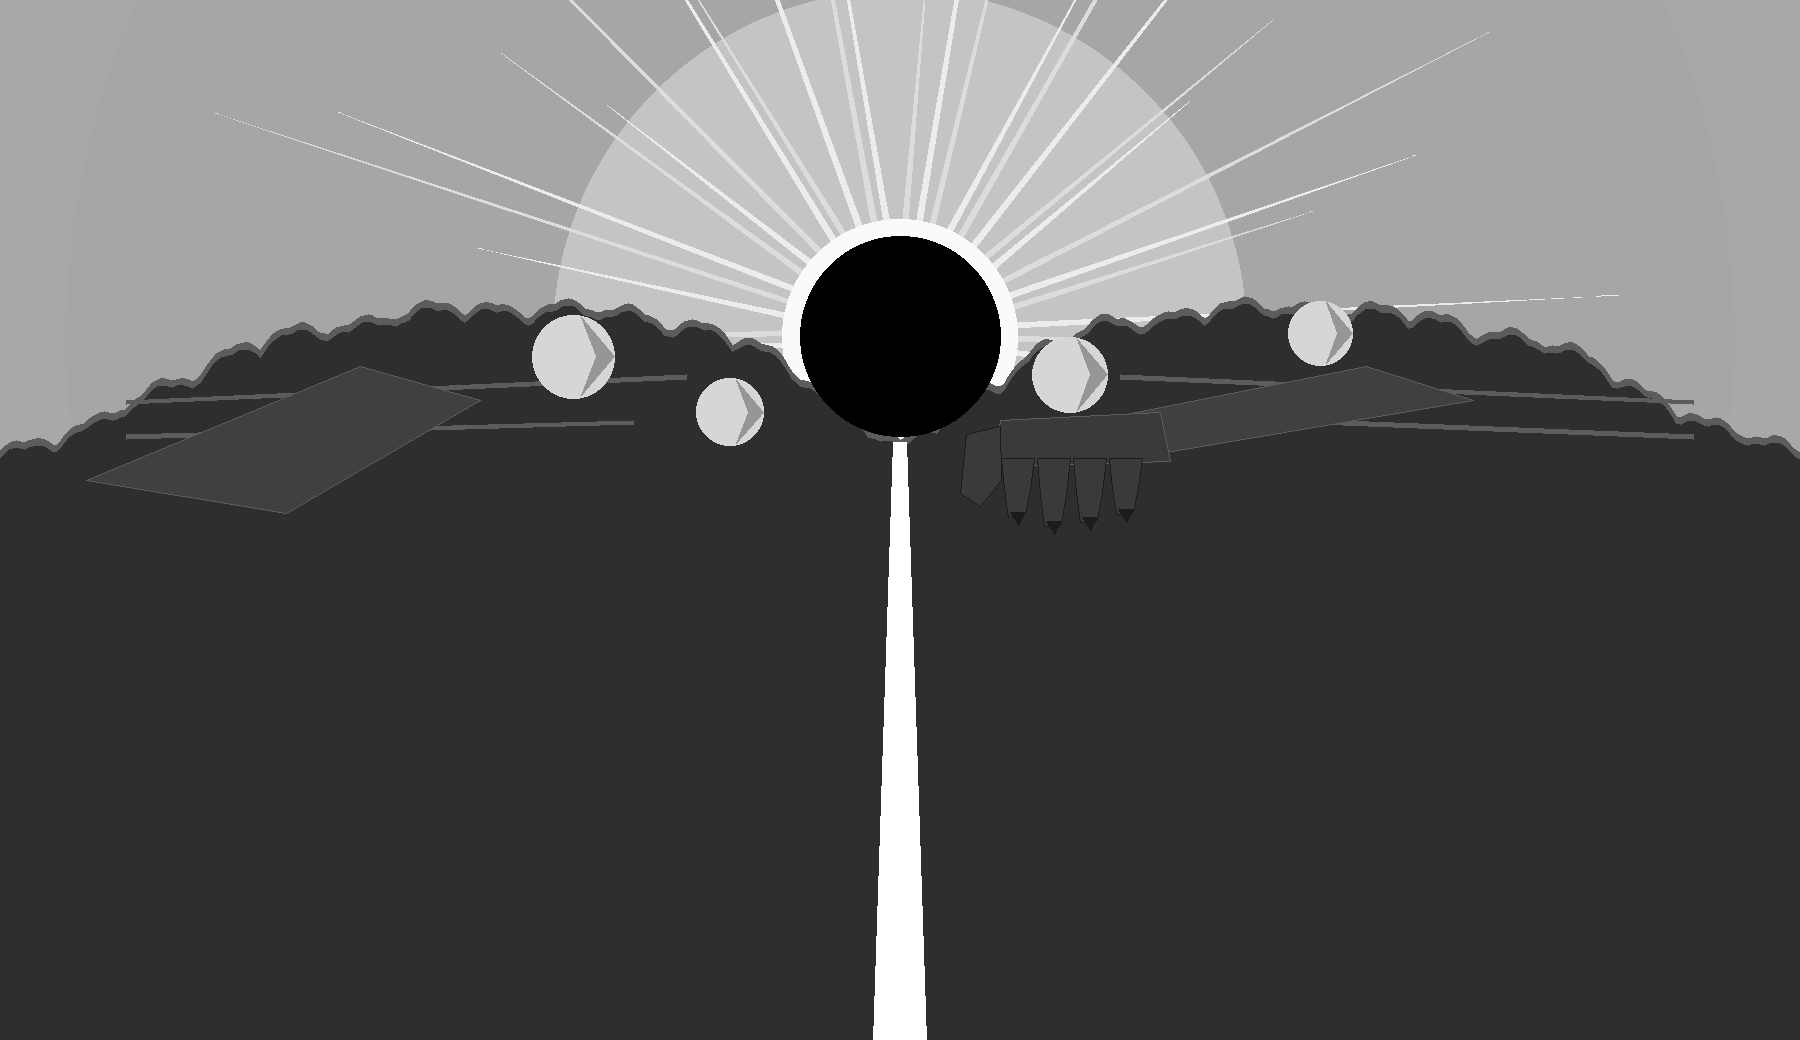
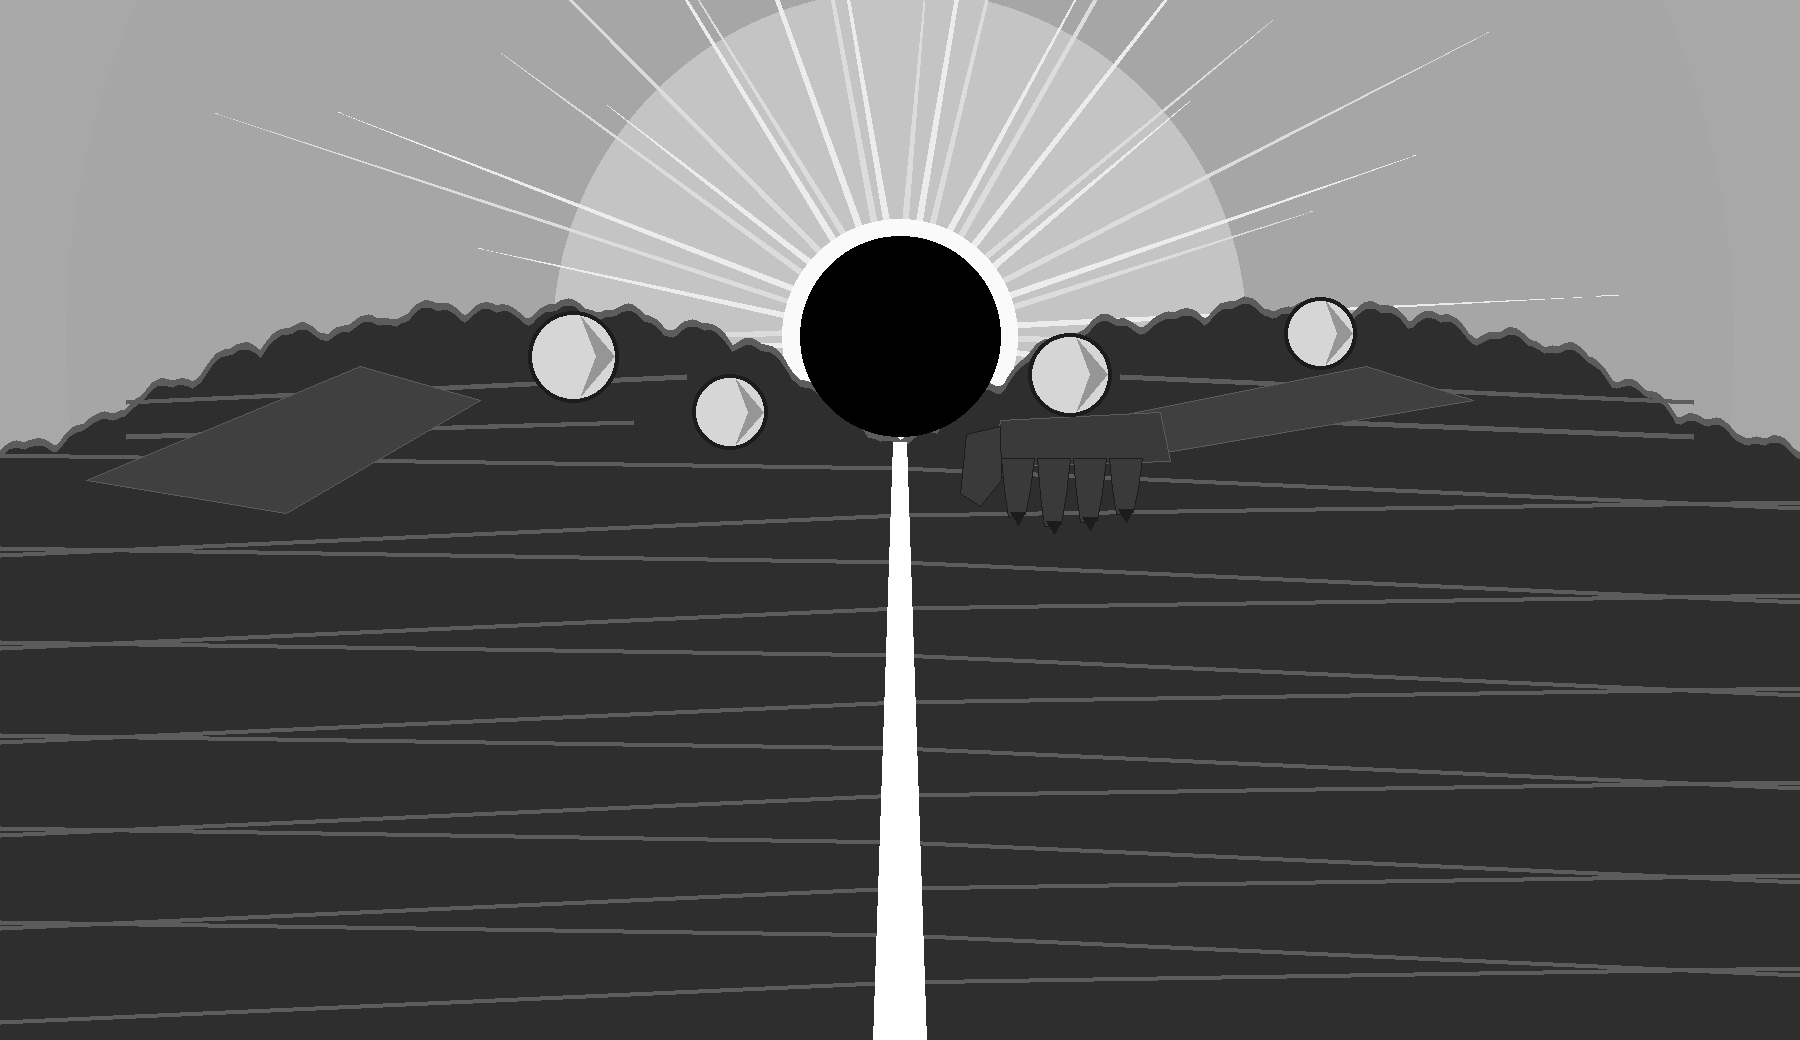
C2 F3 structure route: control silhouette v2 + true-size mock; 7 Bedrock calls (structure x3, search_replace x3, remove_bg x1; 9 of 80); best = structure C4 + face removed (C6) + cut (C7); V0-c mocks; fresh review ITERATE; stopped before C3

diff --git a/assets-src/gen/colossus/chaos_horizon_v0c_mock.py b/assets-src/gen/colossus/chaos_horizon_v0c_mock.py
@@ -1,0 +1,116 @@
+"""V0-c mocks for the F3 structure route (scratch, 0 calls).
+usage: f3_mock.py PIX(900x360) RAW(1800x720) NOBG(1800x720) OUTDIR"""
+import sys
+from pathlib import Path
+ROOT = Path("/Users/wlmmoor/personal/ff-game")
+sys.path.insert(0, str(ROOT / "assets-src"))
+import numpy as np
+from PIL import Image, ImageDraw
+from gen import colossus_review as CR
+from gen import colossus_layers as CL
+
+pix_p, raw_p, nobg_p, outdir = sys.argv[1:5]
+outdir = Path(outdir)
+import os
+W, H, S, HOR = 900, 520, 3, 370
+PLACE = tuple(int(v) for v in os.environ.get("PLACE", "-390,-300").split(","))
+NOFLOOR = bool(os.environ.get("NOFLOOR"))
+P = CL.BASE_PALETTE
+
+pix = np.asarray(Image.open(pix_p).convert("RGBA"))
+canvas = np.zeros((H, W, 4), np.uint8)
+canvas[:360] = pix
+canvas[360:] = pix[359]                      # the torso continues below (behind floorFront; reached only by the pan)
+
+# glow: the raw render's corona (outside the cut, within 360 render px of the disc), stepped like `colossus.py glow`
+raw = np.asarray(Image.open(raw_p).convert("RGB")).astype(float)
+cut = np.asarray(Image.open(nobg_p).convert("RGBA"))[..., 3] >= 128
+yy, xx = np.mgrid[:raw.shape[0], :raw.shape[1]]
+lum = raw @ [0.299, 0.587, 0.114]
+region = (~cut) & (np.hypot(xx - 900, yy - 335) < 420)
+lum_a = np.asarray(Image.fromarray(np.where(region, lum, 0).astype(np.uint8)).resize((W, 360), Image.Resampling.BOX)).astype(float)
+glow = np.zeros((H, W, 4), np.uint8)
+for thr, lvl, col in ((55, 64, "ember"), (95, 128, "ember"), (150, 191, "gold"), (205, 255, "white")):
+    m = lum_a >= thr
+    glow[:360][m] = (*P[col], lvl)
+glow[canvas[..., 3] > 0] = 0
+
+
+def paint(c: np.ndarray) -> np.ndarray:
+    """Offline proposal (0 calls): the chest fissure and the four moons, as the core and moon layers."""
+    c = c.copy()
+    im = Image.fromarray(c, "RGBA"); d = ImageDraw.Draw(im)
+    top = 214
+    for y in range(top, H):
+        w = 1 + (y - top) // 60
+        x = 450 + int(2 * np.sin(y * 0.15))
+        d.line([(x - w - 1, y), (x + w + 1, y)], fill=(*P["gold"], 255))
+        d.line([(x - w, y), (x + w, y)], fill=(*P["white"], 255))
+    shades = {"orb_frost": [(33, 82, 99), P["orb_frost"], (115, 198, 214)],
+              "ember": [(99, 49, 24), P["ember"], P["gold"]],
+              "orb_abyss": [(16, 49, 57), (33, 99, 107), (66, 156, 156)],
+              "orb_storm": [(99, 99, 107), P["orb_storm"], P["white"]]}
+    for (sx, sy, r), key in zip(((470, 235, 62), (705, 318, 50), (1215, 262, 56), (1590, 200, 48)), shades):
+        ax, ay, ar = (sx - PLACE[0]) / S, (sy - PLACE[1]) / S, r / S
+        dk, md, lt = shades[key]
+        d.ellipse((ax - ar - 1, ay - ar - 1, ax + ar + 1, ay + ar + 1), fill=(*P["void_black"], 255))
+        d.ellipse((ax - ar, ay - ar, ax + ar, ay + ar), fill=(*dk, 255))
+        d.ellipse((ax - ar, ay - ar, ax + ar * 0.6, ay + ar * 0.6), fill=(*md, 255))
+        d.ellipse((ax - ar * 0.6, ay - ar * 0.6, ax - ar * 0.1, ay - ar * 0.1), fill=(*lt, 255))
+    return np.asarray(im)
+
+
+def mock(art: np.ndarray, name: str, label: str) -> None:
+    bg = Image.open(ROOT / "assets/backgrounds/rim.webp").convert("RGBA")
+    frame = np.asarray(bg).astype(float)
+    big = lambda a: np.asarray(Image.fromarray(a, "RGBA").resize((W * S, H * S), Image.Resampling.NEAREST))  # noqa
+    def place(a):
+        out = np.zeros((1080, 1920, 4), np.uint8)
+        x0, y0 = PLACE
+        sx0, sy0 = max(0, -x0), max(0, -y0)
+        h, w = min(1080 - max(0, y0), a.shape[0] - sy0), min(1920 - max(0, x0), a.shape[1] - sx0)
+        out[max(0, y0):max(0, y0) + h, max(0, x0):max(0, x0) + w] = a[sy0:sy0 + h, sx0:sx0 + w]
+        return out
+    body, gl = place(big(art)), place(big(glow))
+    al = body[..., 3:4] / 255.0
+    frame[..., :3] = frame[..., :3] * (1 - al) + body[..., :3] * al
+    ga = gl[..., 3:4] / 255.0
+    frame[..., :3] = np.minimum(255, frame[..., :3] + gl[..., :3] * ga)       # additive (the glow layer only)
+    fr = Image.fromarray(frame.astype(np.uint8), "RGBA")
+    fl = Image.open(ROOT / "assets/backgrounds/rim_floor.webp").convert("RGBA")
+    if not NOFLOOR:
+        fr.alpha_composite(fl, (0, 0), ((fl.width - 1920) // 2, 0))
+    CR._party(fr)
+    d = ImageDraw.Draw(fr)
+    for box in ((0, 0, 1919, 119), (0, 780, 1919, 1079)):
+        d.rectangle(box, fill=(24, 32, 120, 255), outline=(240, 240, 240, 255), width=6)
+    d.text((40, 40), label, fill=(255, 255, 255, 255))
+    out = outdir / f"chaos_horizon_v0c_{name}.png"
+    fr.convert("RGB").save(out)
+    cov = ((body[..., 3] > 0) | (gl[..., 3] > 0))[120:HOR]
+    rl = (np.asarray(bg.convert("RGB")).astype(float) @ [0.299, 0.587, 0.114])
+    fl_ = np.asarray(fr.convert("RGB")).astype(float) @ [0.299, 0.587, 0.114]
+    m = body[..., 3] > 0; m[HOR:] = False
+    k = m.copy()
+    for _ in range(6):
+        k2 = k.copy(); k2[1:] |= k[:-1]; k2[:-1] |= k[1:]; k2[:, 1:] |= k[:, :-1]; k2[:, :-1] |= k[:, 1:]; k = k2
+    ring = k & ~m & (np.arange(1080)[:, None] >= 120) & (np.arange(1080)[:, None] < HOR)
+    inner = ~m; k = inner.copy()
+    for _ in range(6):
+        k2 = k.copy(); k2[1:] |= k[:-1]; k2[:-1] |= k[1:]; k2[:, 1:] |= k[:, :-1]; k2[:, :-1] |= k[:, 1:]; k = k2
+    edge = m & k & (np.arange(1080)[:, None] >= 120)
+    print(f"{out.name}: field above the horizon covered (art or glow) {cov.mean():.1%}, columns fully covered "
+          f"{cov.all(0).mean():.1%}; art alone {(body[..., 3] > 0)[120:HOR].mean():.1%}; visible fraction 35.6%; "
+          f"edge_delta (rim ring - art edge) {rl[ring].mean() - fl_[edge].mean():.1f}; party band std "
+          f"{fl_[300:760, 1340:1600].std():.1f} (rim {rl[300:760, 1340:1600].std():.1f})")
+
+
+outdir.mkdir(parents=True, exist_ok=True)
+TAG = os.environ.get("TAG", "")
+if not TAG: mock(canvas, "st_a", "V0-c A: structure render s2+sr4201, remove_bg, pix 900x360 (pitch 2), stepped corona glow")
+mock(paint(canvas), "st_b" + TAG, "V0-c B" + TAG + ": offline-painted fissure + moons (proposal, 0 calls)" + (" | no floorFront, place " + str(PLACE) if TAG else ""))
+sheet = Image.new("RGBA", (W, H), CR.GREY); sheet.alpha_composite(Image.fromarray(paint(canvas), "RGBA"))
+sheet.alpha_composite(Image.fromarray(glow, "RGBA"))
+sheet.resize((W * 2, H * 2), Image.Resampling.NEAREST).convert("RGB").save(outdir / "chaos_horizon_v0c_st_art_2x.png")
+Image.fromarray(canvas, "RGBA").save(outdir / "chaos_horizon_v0c_st_canvas.png")
+print("wrote", outdir / "chaos_horizon_v0c_st_art_2x.png")

diff --git a/assets-src/gen/colossus/chaos_horizon_control.py b/assets-src/gen/colossus/chaos_horizon_control.py
@@ -12,7 +12,8 @@ greyscale shapes on a plain ground:
   - the left forearm lying along the horizon off the left edge, and the right arm reaching down to a continental hand
     whose claws grip the arena rim left of the party (the overhang part, drawn in front of floorFront).
 No legs, no face. Writes, next to this script:
-  chaos_horizon_control.png       1800x1040 (2x the art canvas), the image handed to the structure call
+  chaos_horizon_control.png       1800x1040 (2x the art canvas); its top 720 rows (art rows 0..360, screen y -300..780,
+                                  aspect 2.5:1, the most the structure call takes) are the image handed to the call
   chaos_horizon_control_art.png   900x520 RGBA art-px silhouette (ground transparent), for the stage mock
   chaos_horizon_control_hand.png  900x520 RGBA: the overhang (hand) only
 With --mock: gen/out/colossus/review/chaos_horizon_control_mock.png, the silhouette at true size on the staged rim
@@ -99,6 +100,9 @@ def draw(k: int = K) -> tuple[Image.Image, Image.Image, Image.Image]:
         poly([(x0, y0), (x1, y1), (x1, y1 + 10), (x0, y0 + 10)], RIDGE)
     for x0, y0, x1, y1 in ((-200, 300, 640, 262), (1290, 262, 2150, 300), (-200, 352, 560, 330), (1400, 322, 2150, 352)):
         poly([(x0, y0), (x1, y1), (x1, y1 + 7), (x0, y0 + 7)], RIDGE)   # tectonic plate seams on the shoulders
+    for i, y in enumerate(range(420, 1260, 70)):            # crust plates below the shoulders (edges for structure)
+        sh = 40 if i % 2 else -40
+        poly([(-390, y + sh), (960, y - 20), (2310, y - sh), (2310, y - sh + 6), (960, y - 14), (-390, y + sh + 6)], RIDGE)
     # arms: the left runs down off the left edge; the right reaches down and left to the hand on the rim
     poly([(150, 250), (330, 300), (40, 470), (-260, 420)], ARM, edge=RIDGE)
     poly([(1660, 250), (1820, 300), (1350, 380), (1150, 352)], ARM, edge=RIDGE)
@@ -116,6 +120,7 @@ def draw(k: int = K) -> tuple[Image.Image, Image.Image, Image.Image]:
     poly([(1060, 352), (1110, 340), (1112, 420), (1080, 460), (1050, 440)], HAND, hand=True, edge=CLAW)   # thumb
     # four moons in front of the chest, each about the party's size
     for mx, my, r in ((470, 235, 62), (705, 318, 50), (1215, 262, 56), (1590, 200, 48)):
+        circ(mx, my, r + 6, CLAW)                          # a dark rim so each moon reads as its own piece
         circ(mx, my, r, MOON)
         poly([(mx + r * 0.2, my - r * 0.95), (mx + r, my), (mx + r * 0.2, my + r * 0.95), (mx + r * 0.55, my)],
              MOON_DARK)

diff --git a/assets-src/gen/colossus/chaos_horizon_v0c_mock_simple.py b/assets-src/gen/colossus/chaos_horizon_v0c_mock_simple.py
@@ -1,0 +1,45 @@
+"""V0-c stage mock: pix art at true size on rim + floorFront + party + message window + bottom strip.
+usage: mock.py PIX SCALE PX PY OUT"""
+import sys
+from pathlib import Path
+ROOT = Path("/Users/wlmmoor/personal/ff-game")
+sys.path.insert(0, str(ROOT / "assets-src"))
+import numpy as np
+from PIL import Image, ImageDraw
+from gen import colossus_review as CR
+
+pix, scale, px, py, out = sys.argv[1], int(sys.argv[2]), int(sys.argv[3]), int(sys.argv[4]), sys.argv[5]
+img = Image.open(pix).convert("RGBA")
+frame = Image.open(ROOT / "assets/backgrounds/rim.webp").convert("RGBA")
+big = img.resize((img.width * scale, img.height * scale), Image.Resampling.NEAREST)
+layer = Image.new("RGBA", frame.size, (0, 0, 0, 0)); layer.paste(big, (px, py)); frame.alpha_composite(layer)
+NOFLOOR = len(sys.argv) > 6
+fl = Image.open(ROOT / "assets/backgrounds/rim_floor.webp").convert("RGBA")
+if not NOFLOOR: frame.alpha_composite(fl, (0, 0), ((fl.width - 1920) // 2, 0))
+CR._party(frame)
+d = ImageDraw.Draw(frame)
+for box in ((0, 0, 1919, 119), (0, 780, 1919, 1079)):
+    d.rectangle(box, fill=(24, 32, 120, 255), outline=(240, 240, 240, 255), width=6)
+d.text((40, 40), "Chaos, the Last Horizon, fills the sky!", fill=(255, 255, 255, 255))
+frame.convert("RGB").save(out)
+# measurements: canvas visible fraction, field coverage above horizon, edge contrast vs floor
+cw, ch = big.size
+vis = max(0, min(1920, px + cw) - max(0, px)) * max(0, min(780, py + ch) - max(0, py)) / (cw * ch)
+L = np.asarray(layer)[..., 3] > 0
+band = L[120:370, :]
+lum = lambda a: (a[..., :3].astype(float) * [0.299, 0.587, 0.114]).sum(-1)
+bg = lum(np.asarray(Image.open(ROOT / "assets/backgrounds/rim.webp").convert("RGB")))
+art = lum(np.asarray(layer))
+m = L.copy(); m[370:] = False
+ring = np.zeros_like(m); k = m.copy()
+for _ in range(6):
+    k2 = k.copy(); k2[1:] |= k[:-1]; k2[:-1] |= k[1:]; k2[:, 1:] |= k[:, :-1]; k2[:, :-1] |= k[:, 1:]; k = k2
+ring = k & ~m
+inner = m.copy(); k = ~m
+for _ in range(6):
+    k2 = k.copy(); k2[1:] |= k[:-1]; k2[:-1] |= k[1:]; k2[:, 1:] |= k[:, :-1]; k2[:, :-1] |= k[:, 1:]; k = k2
+edge = m & k
+ed = float(bg[ring].mean() - art[edge].mean()) if ring.any() and edge.any() else float("nan")
+print(f"mock {out}: art {img.size} x{scale} = {big.size} at ({px},{py}); visible fraction {vis:.1%}; "
+      f"field coverage y120-370 {band.mean():.1%} (cols fully covered {band.all(0).mean():.1%}); "
+      f"edge_delta (sky ring - art edge, above horizon) {ed:.1f}")

diff --git a/docs/ROSTER_LOG.md b/docs/ROSTER_LOG.md
@@ -1039,3 +1039,79 @@ Bedrock calls: **2 of 80** (V0 2 of 12; V0-a 2 of its 3). Cost so far about $0.1
   mock needs the overhang hand drawn in front of the floor (the rigger's layer) to judge the planned composition.
 
 **FW-C follow-up (worktree `c2-fw`, 0 Bedrock calls).** `bedrock.MODELS["outpaint"]` = `us.stability.stable-outpaint-v1:0`; `colossus.py outpaint | search_replace | structure` (`colossus_edit.py`, Stability Bedrock schemas, local input / range checks, per-subcommand 5.6 purposes, all through `bedrock.invoke`); `selftest_colossus.py` 34 RED -> GREEN on a mocked client. V0-e and V0-d are unblocked on the tooling side; the R30 credential ruling is still open.
+
+### C2 structure-guided route for F3 (generator, main checkout `roster`, 2026-11-16)
+
+**User ruling (2026-11-16, relayed by the coordinator): F3 "Last Horizon" is generated guided by a silhouette.**
+Text-only V0-a failed twice (C1, C2 above), so the user changed the route; there is still no Gemini path. This route
+may use up to ~10 more Bedrock calls from the 80, including one prompt-only retry.
+
+**Control image (0 calls).** `assets-src/gen/colossus/chaos_horizon_control.py` (PIL) writes
+`chaos_horizon_control.png` (1800x1040 = 2x the 900x520 art canvas), `_art.png` and `_hand.png`, drawn in screen px at
+the rest placement (scale 3, place (-390, -300)). It has an eclipse disc at screen (960, 205) r 150, a corona fan
+filling the sky, two jagged shoulder ranges with a planet-limb fall past both edges, the fissure, four moons, a left
+forearm off the left edge, and the right hand gripping the rim left of the party. There are no legs and no face (the
+3.0 star points are left out, because two dots in a disc read as eyes). The `--mock` true-size check
+(`gen/out/colossus/review/chaos_horizon_control_mock.png`) gave: field above the horizon covered 100 %, visible
+fraction 35.6 %, hand box x 1050-1367 y 318-500 (party x 1380+), and a party-band luma std of 66 (41 on the rim
+alone). The structure call takes at most 2.5:1, so the call uses the control's top 720 rows (art rows 0..360, which
+holds everything the rest view and the pan reach).
+
+**Pixel scale.** I measured the SD 3.5 "pixel art" render C2: its blocks are 7-10 render px (~190 across 1536).
+Making 1 block = 1 art px would cap F3 at ~190 art px wide, against the 900 it needs at scale 3, and the Stability
+outputs are fixed at about 1-2 MP. So the route prompts a clean hard-edged illustration with no pixel-art words, and
+`pix` makes the art pixels. The structure output equals the input size (measured: 1800x1040 and 1800x720), so the
+1800x720 render becomes 900x360 art px at exactly 2 render px per art px (`pix --canvas 900x360` exit 0, palette OK).
+
+| # | Call | Source / settings | Key | Result |
+|---|---|---|---|---|
+| C3 | structure (v0) | full control 1800x1040, strength 0.65, seed 4101, prompt s1 (`gen/colossus/chaos_horizon.structure.prompt.md` history) | `c66d2aa48874ac05bc4ea234` | **reject**: a full-figure golem with legs, a lit sun head and a halo ring; clouds, mountains, a tiny figure; 3D look; no moons. The layout was mostly ignored |
+| C4 | structure (v0) | top 1800x720, strength 0.85, seed 4102, prompt s2 (half-length bust) | `d95ade61d71a34a63f132b44` | **best composition**: eclipse disc + corona + halo, one being, rocky arms and shoulders spanning both edges; but **a demon face inside the disc**, no moons, no fissure, monochrome brown |
+| C5 | structure (v0) | same, strength 0.95, prompt s3 ("featureless empty disc", face words negated) | (ledger) | **reject**: the same face again; the body under the arms turned into sky; no moons or fissure. Higher strength did not help |
+| C6 | search_replace (v0) | C4, search "the stone face with glowing eyes inside the black disc", seed 4201 | (ledger) | **pass**: the face is replaced by a clean pitch-black disc. The edit is local and the rest of the image is identical |
+| C7 | remove_bg (v0) = **V0-b** | C6 | (ledger) | **pass on pieces**: body, both arms, both hands and the disc are whole; the corona and halo glow are stripped (expected, 5.3). No moons to test |
+| C8 | search_replace (v0) | C6, search "the stone plates in the middle of the chest below the black disc", seed 4202 | (ledger) | **no-op**: the output is byte-identical to the input (no match), so the call was wasted |
+| C9 | search_replace (v0) | C6, search "chest", seed 4203 | (ledger) | **reject for F3**: it matched the eclipse disc and filled it with a molten sun core (2.5 % of px changed, all inside the disc's box, the rest identical). V0-d data: search_replace edits are local, and this result is a possible F4 "core ignites" variant |
+
+Bedrock calls: **9 of 80** (V0 9 of 12; this route 7 of its ~10); about $0.5 at list prices. `budget --check` OK
+after every call; Gemini 405 = N_C0.
+
+**V0-c (offline, 0 calls).** C7's cut, a levels stretch (2-99.5 %, gamma 0.8), `pix --canvas 900x360` padded to
+900x520, a stepped corona glow rebuilt from C6's raw (4 levels, ember / gold / white, additive), and an
+offline-painted fissure and four moons (a proposal). Built with `gen/colossus/chaos_horizon_v0c_mock.py`; mocks in
+`gen/out/colossus/review/`:
+- `chaos_horizon_v0c_st_b.png`, plan placement (-390, -300) behind floorFront: covered 92 %, edge contrast 101, party
+  readable. It **reads as a mountain silhouette with a black sun**, not a being.
+- `chaos_horizon_v0c_st_b_c_lev.png`, placement (-390, -180) drawn over the floor (no floorFront): it **reads as one
+  vast eclipse-headed being** whose arms run off both edges; covered 76 %, edge contrast 97; the warrior and thief
+  stand over the dark right arm.
+- `chaos_horizon_v0c_st_art_2x.png`: the art canvas.
+
+**Fresh image-only review (multimodal-looker; given only the image paths): ITERATE.**
+- What works: one being, an eclipse head, no face, none of the 3.5 look-alikes. Of the five features, 2 are drawn by
+  the model (eclipse head, two arms) and the shoulders count partly (ridge-lit masonry, not black mountains). The
+  fissure and the moons are missing from the render.
+- Placement A reads as a landscape. Placement C reads as the largest thing on screen but only partly as planet-sized.
+- Top fixes:
+  - the painted fissure looks like a vector line: give it a tapered glow;
+  - the moons look pasted on and too clean: use the stone's own ramp, place them in front of the chest, and move the
+    grey moon away from the backdrop's planet and the party;
+  - separate the arms with rim light, show a hand, lift the darks off pure black, keep the right arm off the front
+    heroes, and fix the notched cut-out edge at the eclipse and the smeared fill below the torso.
+
+**G-C0 for this route: not passed. The generator stopped before C3**, which the coordinator's ruling only allows on a
+pass.
+- V0-a: 2 of 5 features from the model, 1 partial.
+- V0-b: pass.
+- V0-c: fail at the plan placement; partial at placement C, which needs a ruling because it changes the 3.0 / 4.2
+  floorFront composition.
+- V0-d: data only.
+- V0-e: not run.
+
+**Recommendation (orchestrator / user).**
+1. Treat C6 as the F3 base and finish it offline (0 calls): a painted glowing fissure and moons in the stone ramp, as
+   their own layers (the plan already makes the moons and the core separate layers), and rim-lit arm edges. Rule on
+   placement C, or a middle ground with the arms and the hand as overhang layers over the far floor.
+2. If more calls are allowed: one outpaint down/right to give the right arm a hand that reaches the rim (f3_gen,
+   1-2 calls), and one search_replace with a simple search ("right hand") if needed.
+3. The face problem is solved by search_replace, not by prompts.

diff --git a/assets-src/gen/colossus/chaos_horizon.structure.prompt.md b/assets-src/gen/colossus/chaos_horizon.structure.prompt.md
@@ -1,0 +1,27 @@
+# chaos_horizon structure-guided route (user ruling 2026-11-16), prompt s3 (s2: st_4102 at 0.85 on the cropped control, a strong eclipse + corona and arms
+# off both edges, but a demon face inside the disc, no moons, no fissure, monochrome; s1: st_4101, full figure with legs,
+# clouds and mountains, a lit sun instead of a black disc, no moons, 3D look), used with chaos_horizon_control.png
+# No "pixel art" words: an SD-family "pixel art" render has ~8 render px blocks (~190 across), so 1 block = 1 art px
+# would cap F3 at ~190 art px wide; instead the render is a clean hard-edged illustration and `pix` makes the pixels
+# (900x520 art px from the render at a pitch of ~2 render px per art px).
+
+## prompt
+Flat 2D fantasy video game boss art: the upper body of one colossal cosmic titan seen from the front, a half-length
+bust cut off at the chest by the bottom edge of the image, so vast that it fills the whole width. It has no head: where
+a head would be there is only a perfect, featureless, empty, pitch-black eclipse disc, a hole of pure black void with
+nothing inside it, ringed by a thin white-hot rim and a blazing corona of orange, gold and white flame streamers
+fanning across the whole sky behind it. Its two shoulders are vast jagged mountain ranges of black stone with gold
+seams and lit ridgelines, curving down at the far left and right edges like the rim of a planet. Its chest is a crust
+of black stone plates with glowing orange ember cracks and gold veins. A tall, bright, white-hot vertical fissure
+splits the middle of the chest straight down from under the black disc, gold at its edges. Its right forearm of
+layered black-gold rock plates reaches down at the lower right and its colossal stone hand with clawed fingers hooks
+over the lower edge. Four separate small glowing moons, round spheres each in its own colour, float in front of the
+shoulders and chest: a frost cyan moon, an ember orange moon, a deep teal moon and a storm white moon. Crisp hard
+edges, flat cel shading with few tones, high contrast, light from the upper left.
+
+## negative_prompt
+face, skull, head inside the disc, eyes, glowing eyes, mouth, teeth, nose, mask, human face, demon face, helmet,
+horns, wings, tail, legs, feet, hips, full body, small figure, person, people, throne, tree, ringed planet, planet with
+a face, glowing sun head, landscape, clouds, mountains in the background, ground, buildings, city, text, watermark,
+frame, border, photorealistic, 3d render, cinematic, monochrome, sepia, blurry, soft airbrush gradients, pixelated,
+mosaic
